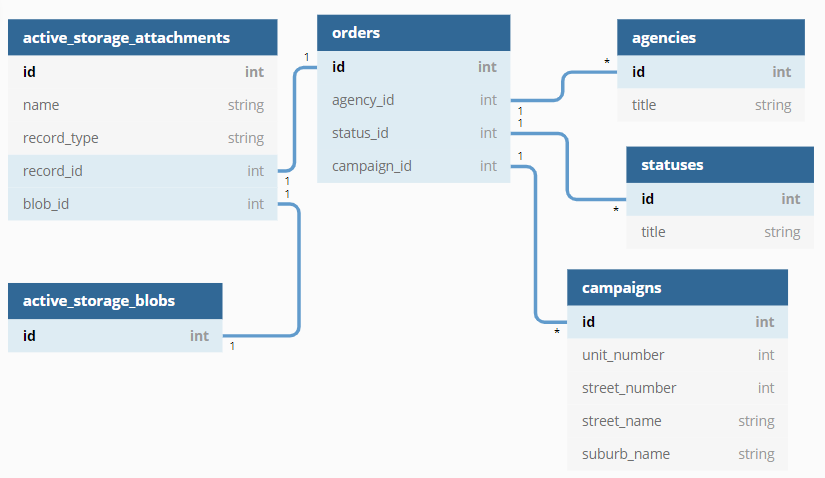
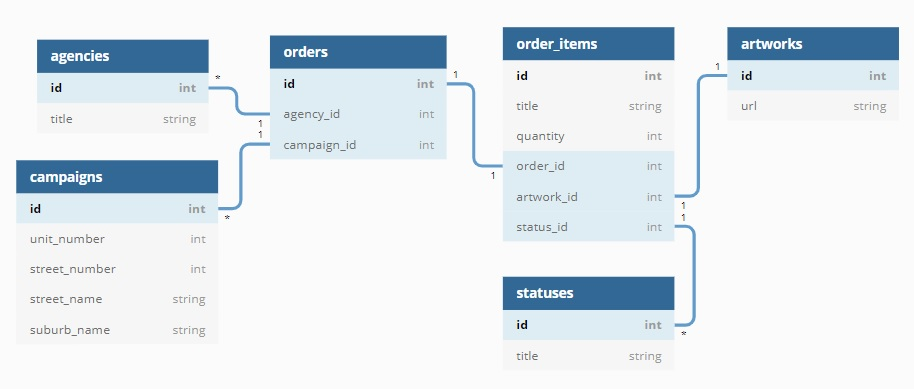
updated ERD and migrations for order items and artworks tables

diff --git a/db/schema.rb b/db/schema.rb
@@ -10,13 +10,17 @@
 #
 # It's strongly recommended that you check this file into your version control system.
 
-ActiveRecord::Schema.define(version: 2020_06_20_214851) do
+ActiveRecord::Schema.define(version: 2020_06_23_215643) do
 
   # These are extensions that must be enabled in order to support this database
   enable_extension "plpgsql"
 
   create_table "agencies", force: :cascade do |t|
     t.string "title"
+  end
+
+  create_table "artworks", force: :cascade do |t|
+    t.text "url"
   end
 
   create_table "campaigns", force: :cascade do |t|
@@ -26,22 +30,31 @@ ActiveRecord::Schema.define(version: 2020_06_20_214851) do
     t.string "suburb_name"
   end
 
-  create_table "orders", force: :cascade do |t|
-    t.bigint "agency_id"
-    t.bigint "status_id"
-    t.bigint "campaign_id"
+  create_table "order_items", force: :cascade do |t|
     t.string "title"
     t.integer "quantity"
+    t.bigint "order_id"
+    t.bigint "artwork_id"
+    t.bigint "status_id"
+    t.index ["artwork_id"], name: "index_order_items_on_artwork_id"
+    t.index ["order_id"], name: "index_order_items_on_order_id"
+    t.index ["status_id"], name: "index_order_items_on_status_id"
+  end
+
+  create_table "orders", force: :cascade do |t|
+    t.bigint "agency_id"
+    t.bigint "campaign_id"
     t.index ["agency_id"], name: "index_orders_on_agency_id"
     t.index ["campaign_id"], name: "index_orders_on_campaign_id"
-    t.index ["status_id"], name: "index_orders_on_status_id"
   end
 
   create_table "statuses", force: :cascade do |t|
     t.string "title"
   end
 
+  add_foreign_key "order_items", "artworks"
+  add_foreign_key "order_items", "orders"
+  add_foreign_key "order_items", "statuses"
   add_foreign_key "orders", "agencies"
   add_foreign_key "orders", "campaigns"
-  add_foreign_key "orders", "statuses"
 end

diff --git a/db/migrate/20200623215643_create_order_items.rb b/db/migrate/20200623215643_create_order_items.rb
@@ -1,0 +1,11 @@
+class CreateOrderItems < ActiveRecord::Migration[5.2]
+  def change
+    create_table :order_items do |t|
+      t.string :title
+      t.integer :quantity
+      t.references :order, foreign_key: true
+      t.references :artwork, foreign_key: true
+      t.references :status, foreign_key: true
+    end
+  end
+end

diff --git a/db/migrate/20200623214702_remove_columns_from_orders.rb b/db/migrate/20200623214702_remove_columns_from_orders.rb
@@ -1,0 +1,7 @@
+class RemoveColumnsFromOrders < ActiveRecord::Migration[5.2]
+  def change
+    remove_column :orders, :status_id, :integer
+    remove_column :orders, :title, :string
+    remove_column :orders, :quantity, :integer
+  end
+end

diff --git a/db/migrate/20200623215305_create_artworks.rb b/db/migrate/20200623215305_create_artworks.rb
@@ -1,0 +1,7 @@
+class CreateArtworks < ActiveRecord::Migration[5.2]
+  def change
+    create_table :artworks do |t|
+      t.text :url
+    end
+  end
+end

diff --git a/README.md b/README.md
@@ -7,10 +7,22 @@
 
 ![entity_relationship_diagram](./docs/erd.png)
 
+Orders and agencies
 - an order has 1 agency
 - an agency can have many orders
+
+Orders and campaigns
 - an order has 1 campaign
 - a campaign can have many orders
-- an order has 1 status
-- a status can have many orders
-- an order can have many attached images
+
+Orders and order items
+- an order can have many order items
+- an order can have many orders
+
+Order items and statuses
+- an order item can have 1 status
+- a status can have many order items
+
+Order items and artworks
+- an order item can have 1 artwork
+- an artwork can have many order items
